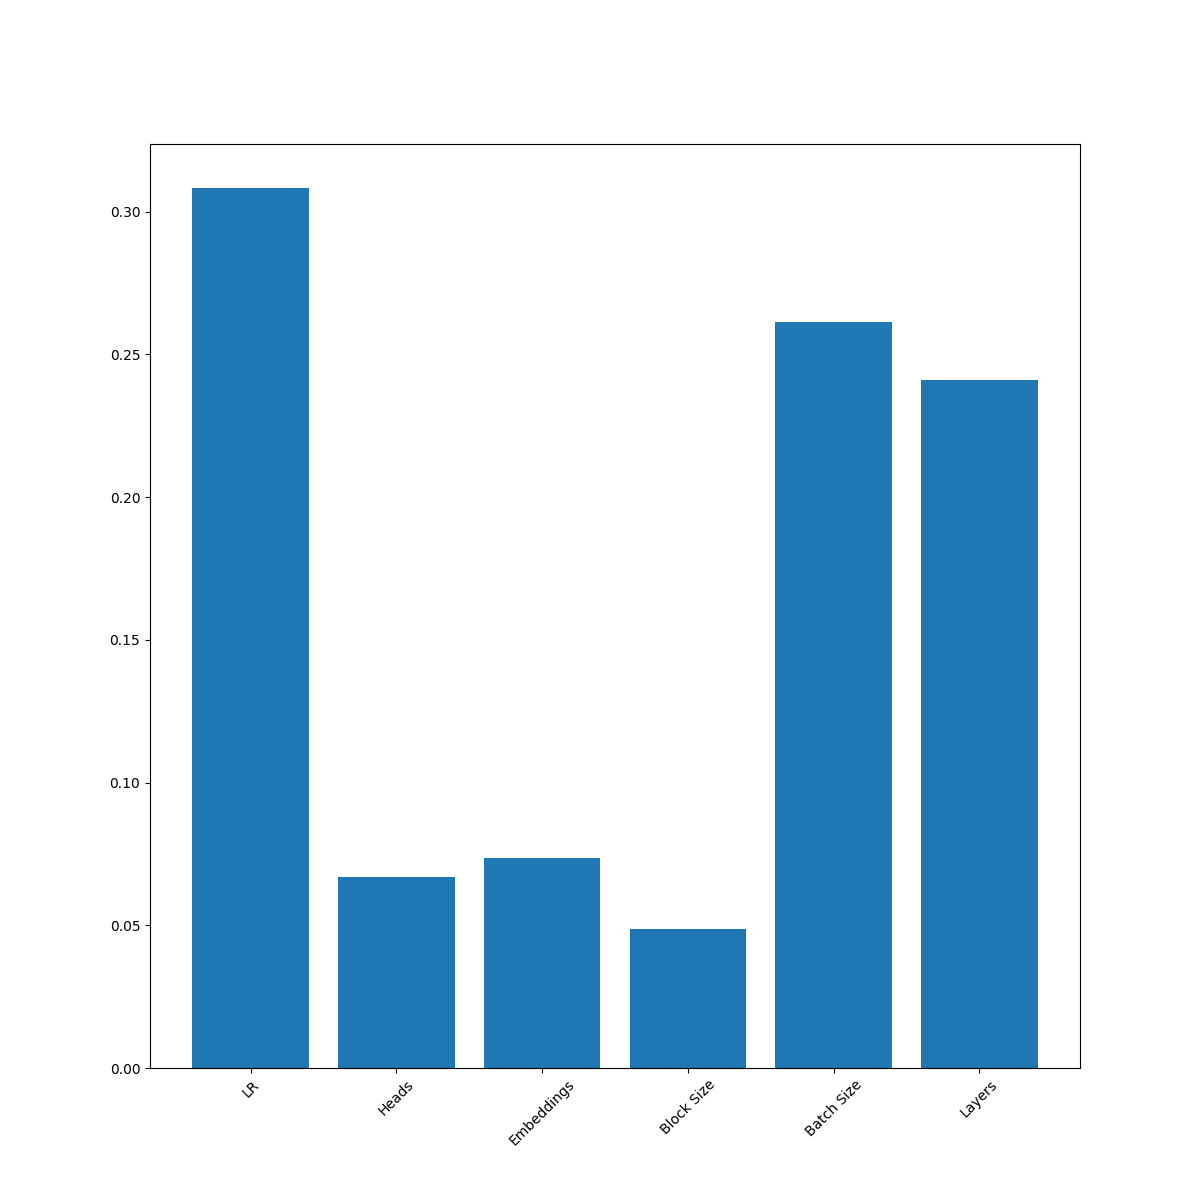
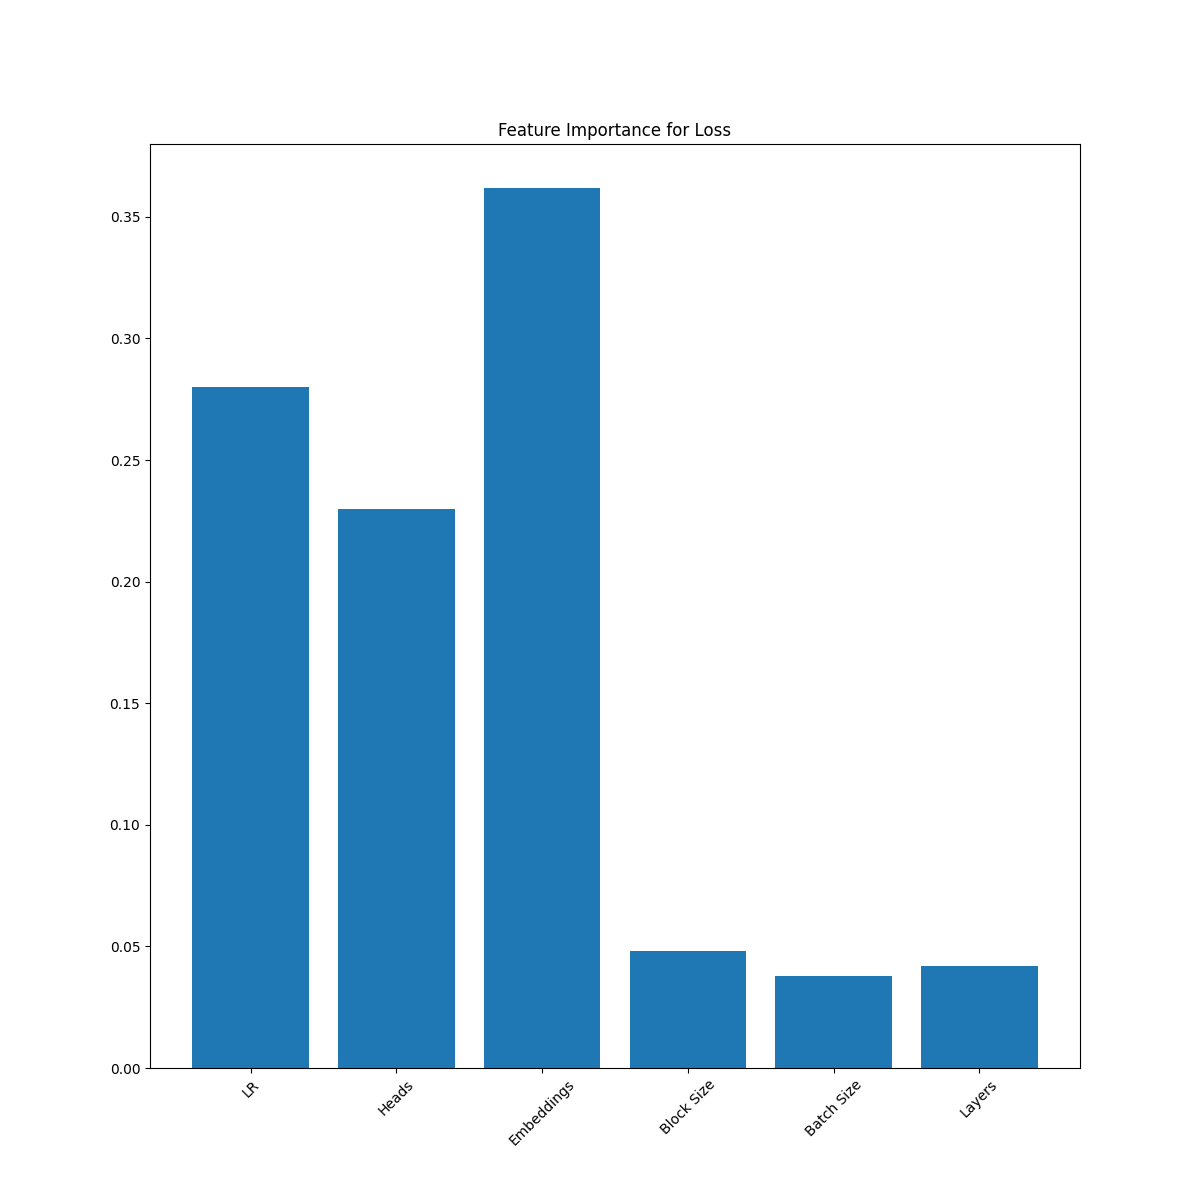
added charts

diff --git a/output_eda.py b/output_eda.py
@@ -26,16 +26,24 @@ def get_stat_info(df: pd.DataFrame):
     print(f"Pearson:\n{r_features}")
 
 
-def display_feature_importance(df: pd.DataFrame):
+def display_feature_importance(df: pd.DataFrame, include_training_time: bool):
     df = df.copy()
     clf = RandomForestRegressor()
-    y = df[["final_loss", "total_training_time"]]
+    if include_training_time:
+        y = df[["final_loss", "total_training_time"]]
+    else:
+        y = df[["final_loss"]]
+
     df.drop(columns=["final_loss", "total_training_time", "Size", "Generated Text"] +
             [col for col in df.columns if "Step " in col], inplace=True)
     clf.fit(df, y)
     plt.figure(figsize=(12,12))
     plt.bar(df.columns, clf.feature_importances_)
     plt.xticks(rotation=45)
+    if include_training_time:
+        plt.title("Feature Importance for Loss and Training Time")
+    else:
+        plt.title("Feature Importance for Loss")
     plt.show()
 
 
@@ -106,7 +114,8 @@ if __name__ == '__main__':
     get_stat_info(df)
     print("-----"*5)
 
-    display_feature_importance(df)
+    display_feature_importance(df, include_training_time=True)
+    display_feature_importance(df, include_training_time=False)
     print("-----"*5)
 
     dfs = []
